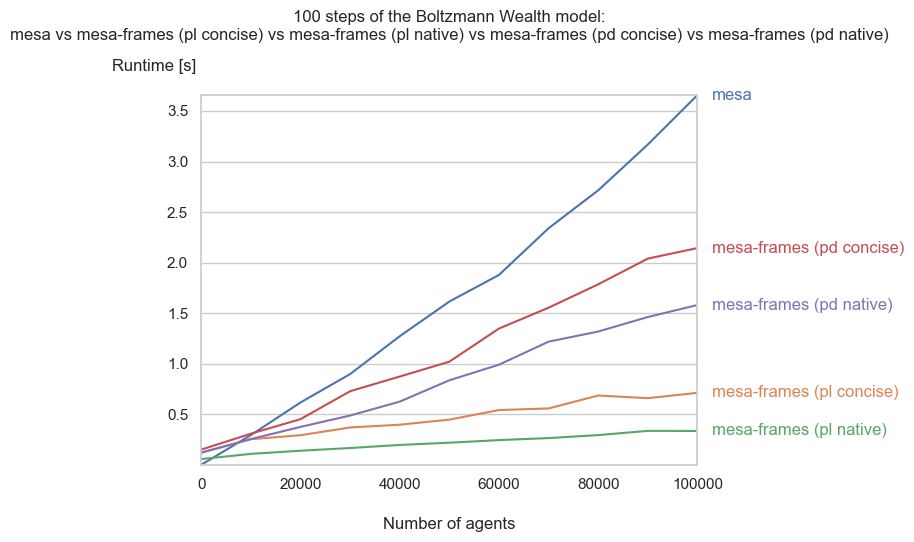
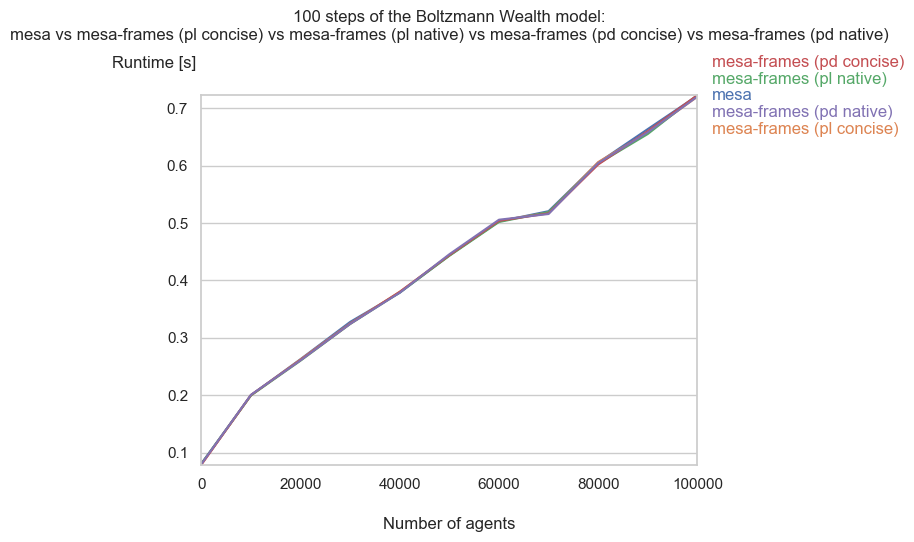
Initial Commit for toml and example script
This commit includes changes in toml file to update numpy verstion to 2.0.2 and using numba latest

along with changes in performance_plot.py to use custom modal and agent for testing

diff --git a/examples/boltzmann_wealth/performance_plot.py b/examples/boltzmann_wealth/performance_plot.py
@@ -1,4 +1,5 @@
 import matplotlib.pyplot as plt
+from mesa_frames import AgentSetPolars
 import mesa
 import numpy as np
 import pandas as pd
@@ -11,9 +12,38 @@ from mesa_frames import AgentSetPandas, AgentSetPolars, ModelDF
 
 ### ---------- Mesa implementation ---------- ###
 def mesa_implementation(n_agents: int) -> None:
-    model = MoneyModel(n_agents)
+    model = MoneyModelDF(n_agents, None)
     model.run_model(100)
 
+class MoneyAgentPolars(AgentSetPolars):
+    def __init__(self, n: int, model: ModelDF):
+        super().__init__(model)
+        # Adding the agents to the agent set
+        self += pl.DataFrame(
+            {"unique_id": pl.arange(n, eager=True), "wealth": pl.ones(n, eager=True)}
+        )
+
+    def step(self) -> None:
+        # The give_money method is called
+        self.do("give_money")
+
+    def give_money(self):
+        # Active agents are changed to wealthy agents
+        self.select(self.wealth > 0)
+
+        # Receiving agents are sampled (only native expressions currently supported)
+        other_agents = self.agents.sample(
+            n=len(self.active_agents), with_replacement=True
+        )
+
+        # Wealth of wealthy is decreased by 1
+        self["active", "wealth"] -= 1
+
+        # Compute the income of the other agents (only native expressions currently supported)
+        new_wealth = other_agents.group_by("unique_id").len()
+
+        # Add the income to the other agents
+        self[new_wealth, "wealth"] += new_wealth["len"]
 
 class MoneyAgent(mesa.Agent):
     """An agent with fixed initial wealth."""
@@ -241,7 +271,7 @@ class MoneyModelDF(ModelDF):
     def __init__(self, N: int, agents_cls):
         super().__init__()
         self.n_agents = N
-        self.agents += agents_cls(N, self)
+        self.agents += MoneyAgentPolars(N, self)
 
     def step(self):
         # Executes the step method for every agentset in self.agents
